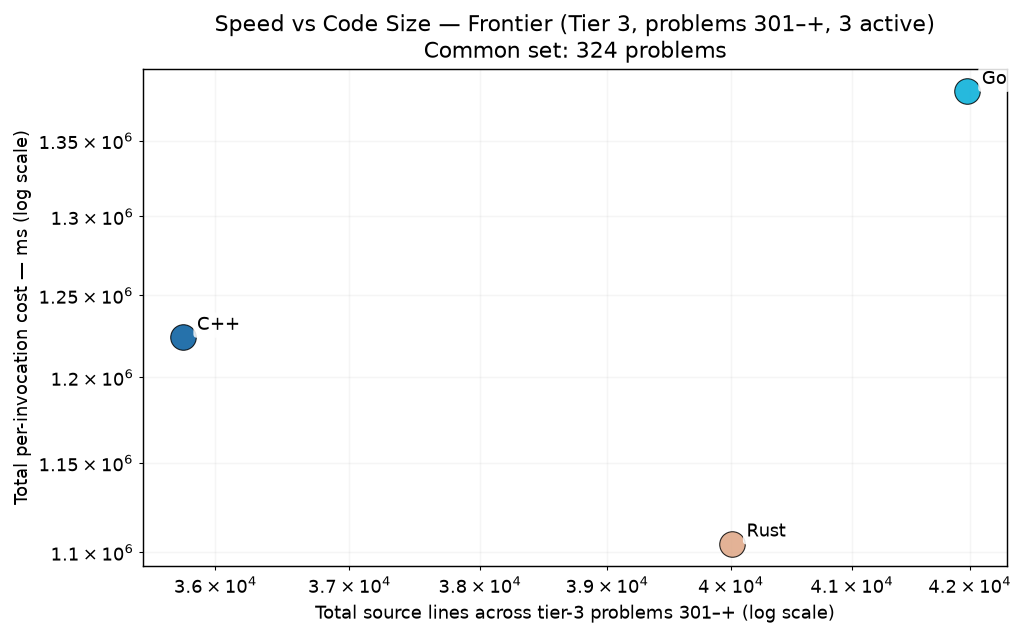
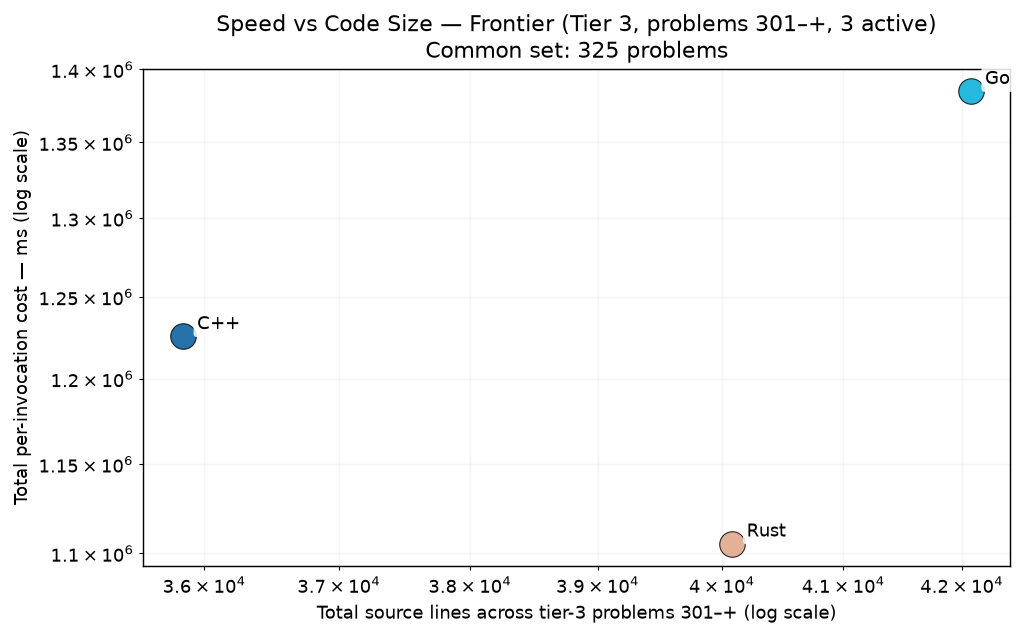
p1001 solved (cpp/go/rust): Connections I; scope/grid reach 1007; drop stale per_problem orphans

diff --git a/report.py b/report.py
@@ -66,10 +66,9 @@ _TIERS = load_tiers()
 # the grid and excludes it from per-lang totals.
 _T2_HI = tier_problem_range("tier_2_deep_coverage", _TIERS)[1] or 300
 _T3_LO = tier_problem_range("tier_3_frontier", _TIERS)[0] or 301
-# Display cap: max(t2_hi, 1005) covers PE's full published range (PE reached
-# #1005 in 2026-07) so coverage % reckons against the true universe. Highest
-# solved is 985 cpp / 978 go / 948 rust — so 986-1005 is an unsolved frontier.
-_DISPLAY_HI = max(_T2_HI, 1005)
+# Display cap: max(t2_hi, 1007) covers PE's full published range (PE reached
+# #1007 in 2026-07) so coverage % reckons against the true universe.
+_DISPLAY_HI = max(_T2_HI, 1007)
 
 # Parallel-class problems (METHODOLOGY.md §5) — rows on these problems are
 # idiomatic-parallel by policy and get a distinct marker in every table where
@@ -111,11 +110,11 @@ def allowance_ns(lang: str) -> int:
 SCOPE_PROBLEMS = [f"{i:04d}" for i in range(1, _DISPLAY_HI + 1)]
 
 # Coverage-grid display range — deliberately DECOUPLED from _DISPLAY_HI. The grid is a
-# full-PE-range landscape map (extended to 1000 once PE crossed #999, 2026-06; to 1005 when
-# PE reached #1005, 2026-07); the report's stats/coverage scope (_DISPLAY_HI) stays at its
-# audited ceiling. A solved problem above _DISPLAY_HI therefore shows as a cell on the grid
-# but is NOT folded into per-lang totals, coverage %, or tier denominators (grid is just a map).
-_GRID_HI = 1005
+# full-PE-range landscape map (extended to 1000 once PE crossed #999, 2026-06; 1005 and then
+# 1007 as PE published more, 2026-07); the report's stats/coverage scope (_DISPLAY_HI) stays
+# at its audited ceiling. A solved problem above _DISPLAY_HI therefore shows as a cell on the
+# grid but is NOT folded into per-lang totals, coverage %, or tier denominators (just a map).
+_GRID_HI = 1007
 GRID_PROBLEMS = [f"{i:04d}" for i in range(1, _GRID_HI + 1)]
 
 # Languages — used for data loading and the total-cost bar chart.  Alphabetic

diff --git a/RESULTS.md b/RESULTS.md
@@ -1,12 +1,12 @@
 # Project Euler — Cross-Language Benchmarks
 
-> **Scope: 4615 in-scope cells across 1005 problems × tiered languages — 3590 measured (77.8% coverage).**
+> **Scope: 4621 in-scope cells across 1007 problems × tiered languages — 3593 measured (77.8% coverage).**
 > The cross-language ranking below is computed over the **200-problem common set** (problems in 1-200 where every language has a passing measurement) — the apples-to-apples Foundation comparison surface.  Per-tier rankings and coverage detail appear further below.
 > Growing carefully — each new problem and language is audited for state-leak
 > safety, verified for answer correctness, and added only when it cleanly fits the
 > measurement methodology.  See [JOURNEY.md](JOURNEY.md) for the full story of how
 > we got here, including the reset from 200+ problems back to a verified 10×10
-> core, then the disciplined expansion to today's 1005-problem scope.
+> core, then the disciplined expansion to today's 1007-problem scope.
 
 ## Foundation — Tier 1 (10 languages, problems 1-200)
 
@@ -71,15 +71,15 @@ Same scatter as the Foundation chart, restricted to the tier-2 active languages 
 
 The frontier verification trio — C++, Go, Rust — on problems above 300. 3-way cross-language agreement is the verification protocol (strictly stronger than 2-way; see JOURNEY.md "Tier Reframing" episode for the p254 lesson that motivated it). Python and Zig are explicitly out of this tier — python's wall cost makes it impractical at level 5+, and zig's role caps at Tier 2.
 
-### Per-Invocation Cost (Common Set, 324 of ≤705 problems in scope)
+### Per-Invocation Cost (Common Set, 325 of ≤707 problems in scope)
 
 ![Per-Invocation Cost — Tier 3](charts/per_iter_total_tier3.png)
 
-| Rank | Language | Geomean (324-problem common set) | Total (sum) | Lines of code | vs Fastest |
+| Rank | Language | Geomean (325-problem common set) | Total (sum) | Lines of code | vs Fastest |
 |------|----------|--------------------:|------------:|--------------:|-----------:|
-| 1 | **Rust** | 52.59 ms | 1104.65 s | 40,009 | 1.00× |
-| 2 | **C++** | 59.17 ms | 1224.31 s | 35,759 | 1.13× |
-| 3 | **Go** | 71.68 ms | 1383.63 s | 41,980 | 1.36× |
+| 1 | **Rust** | 52.99 ms | 1105.28 s | 40,084 | 1.00× |
+| 2 | **C++** | 59.73 ms | 1225.61 s | 35,843 | 1.13× |
+| 3 | **Go** | 72.32 ms | 1384.92 s | 42,076 | 1.36× |
 
 ### Speed vs Code Size
 
@@ -131,7 +131,7 @@ Split across 11 pages, one per 100-problem band, so this main page stays navigab
 | p0701–p0800 | Frontier | 3 | [Open](per_problem/per_problem_0701-0800.md) |
 | p0801–p0900 | Frontier | 3 | [Open](per_problem/per_problem_0801-0900.md) |
 | p0901–p1000 | Frontier | 3 | [Open](per_problem/per_problem_0901-1000.md) |
-| p1001–p1005 | Frontier | 3 | [Open](per_problem/per_problem_1001-1005.md) |
+| p1001–p1007 | Frontier | 3 | [Open](per_problem/per_problem_1001-1007.md) |
 
 ## Method
 
@@ -183,7 +183,7 @@ the honest cost of the language model under a CLI-invocation workload.
 
 ### Note on Zig timings (comptime-fold bias)
 
-> Of the 1005 problems benchmarked, **roughly 20-25% of cells** are fully
+> Of the 1007 problems benchmarked, **roughly 20-25% of cells** are fully
 > constant-foldable under Zig's `-O ReleaseFast` flag: the inputs are compile-time
 > literals and the arithmetic is pure, so the optimizer reduces `solve()` to a
 > constant return.  Known fold-candidates include p001, p002, p005, p006, p009,
@@ -257,7 +257,7 @@ language honesty — the OS enforces it for free.
 
 ```bash
 cd pe/benchmarks
-cmd/euler-bench/euler-bench per-iter --lang all --problems 1-1005 --write
+cmd/euler-bench/euler-bench per-iter --lang all --problems 1-1007 --write
 python3 report.py
 ```
 

diff --git a/per_problem/per_problem_1001-1007.md b/per_problem/per_problem_1001-1007.md
@@ -1,4 +1,4 @@
-# Per-Problem Detail — Problems 1001–1005 (Frontier, 3 langs)
+# Per-Problem Detail — Problems 1001–1007 (Frontier, 3 langs)
 
 ⬅ [Back to RESULTS](../RESULTS.md)
 
@@ -8,11 +8,13 @@ in tier-1 display order (native → managed → interpreted).
 
 | Problem | C++ | Rust | Go |
 |---------|----:|----:|----:|
-| **p1001** | — | — | — |
+| **p1001** | 1.31 s | 622.94 ms | 1.29 s |
 | **p1002** | — | — | — |
 | **p1003** | 753.02 ms | 399.57 ms | 1.30 s |
 | **p1004** | 72.95 ms | 71.09 ms | 78.78 ms |
 | **p1005** | 1.27 ms† | 2.28 ms† | 2.45 ms† |
+| **p1006** | — | — | — |
+| **p1007** | — | — | — |
 
 > † — *no corroboration*: no two samples agreed within 5%; median recorded, environment flagged for re-bench (METHODOLOGY.md §3).
 
